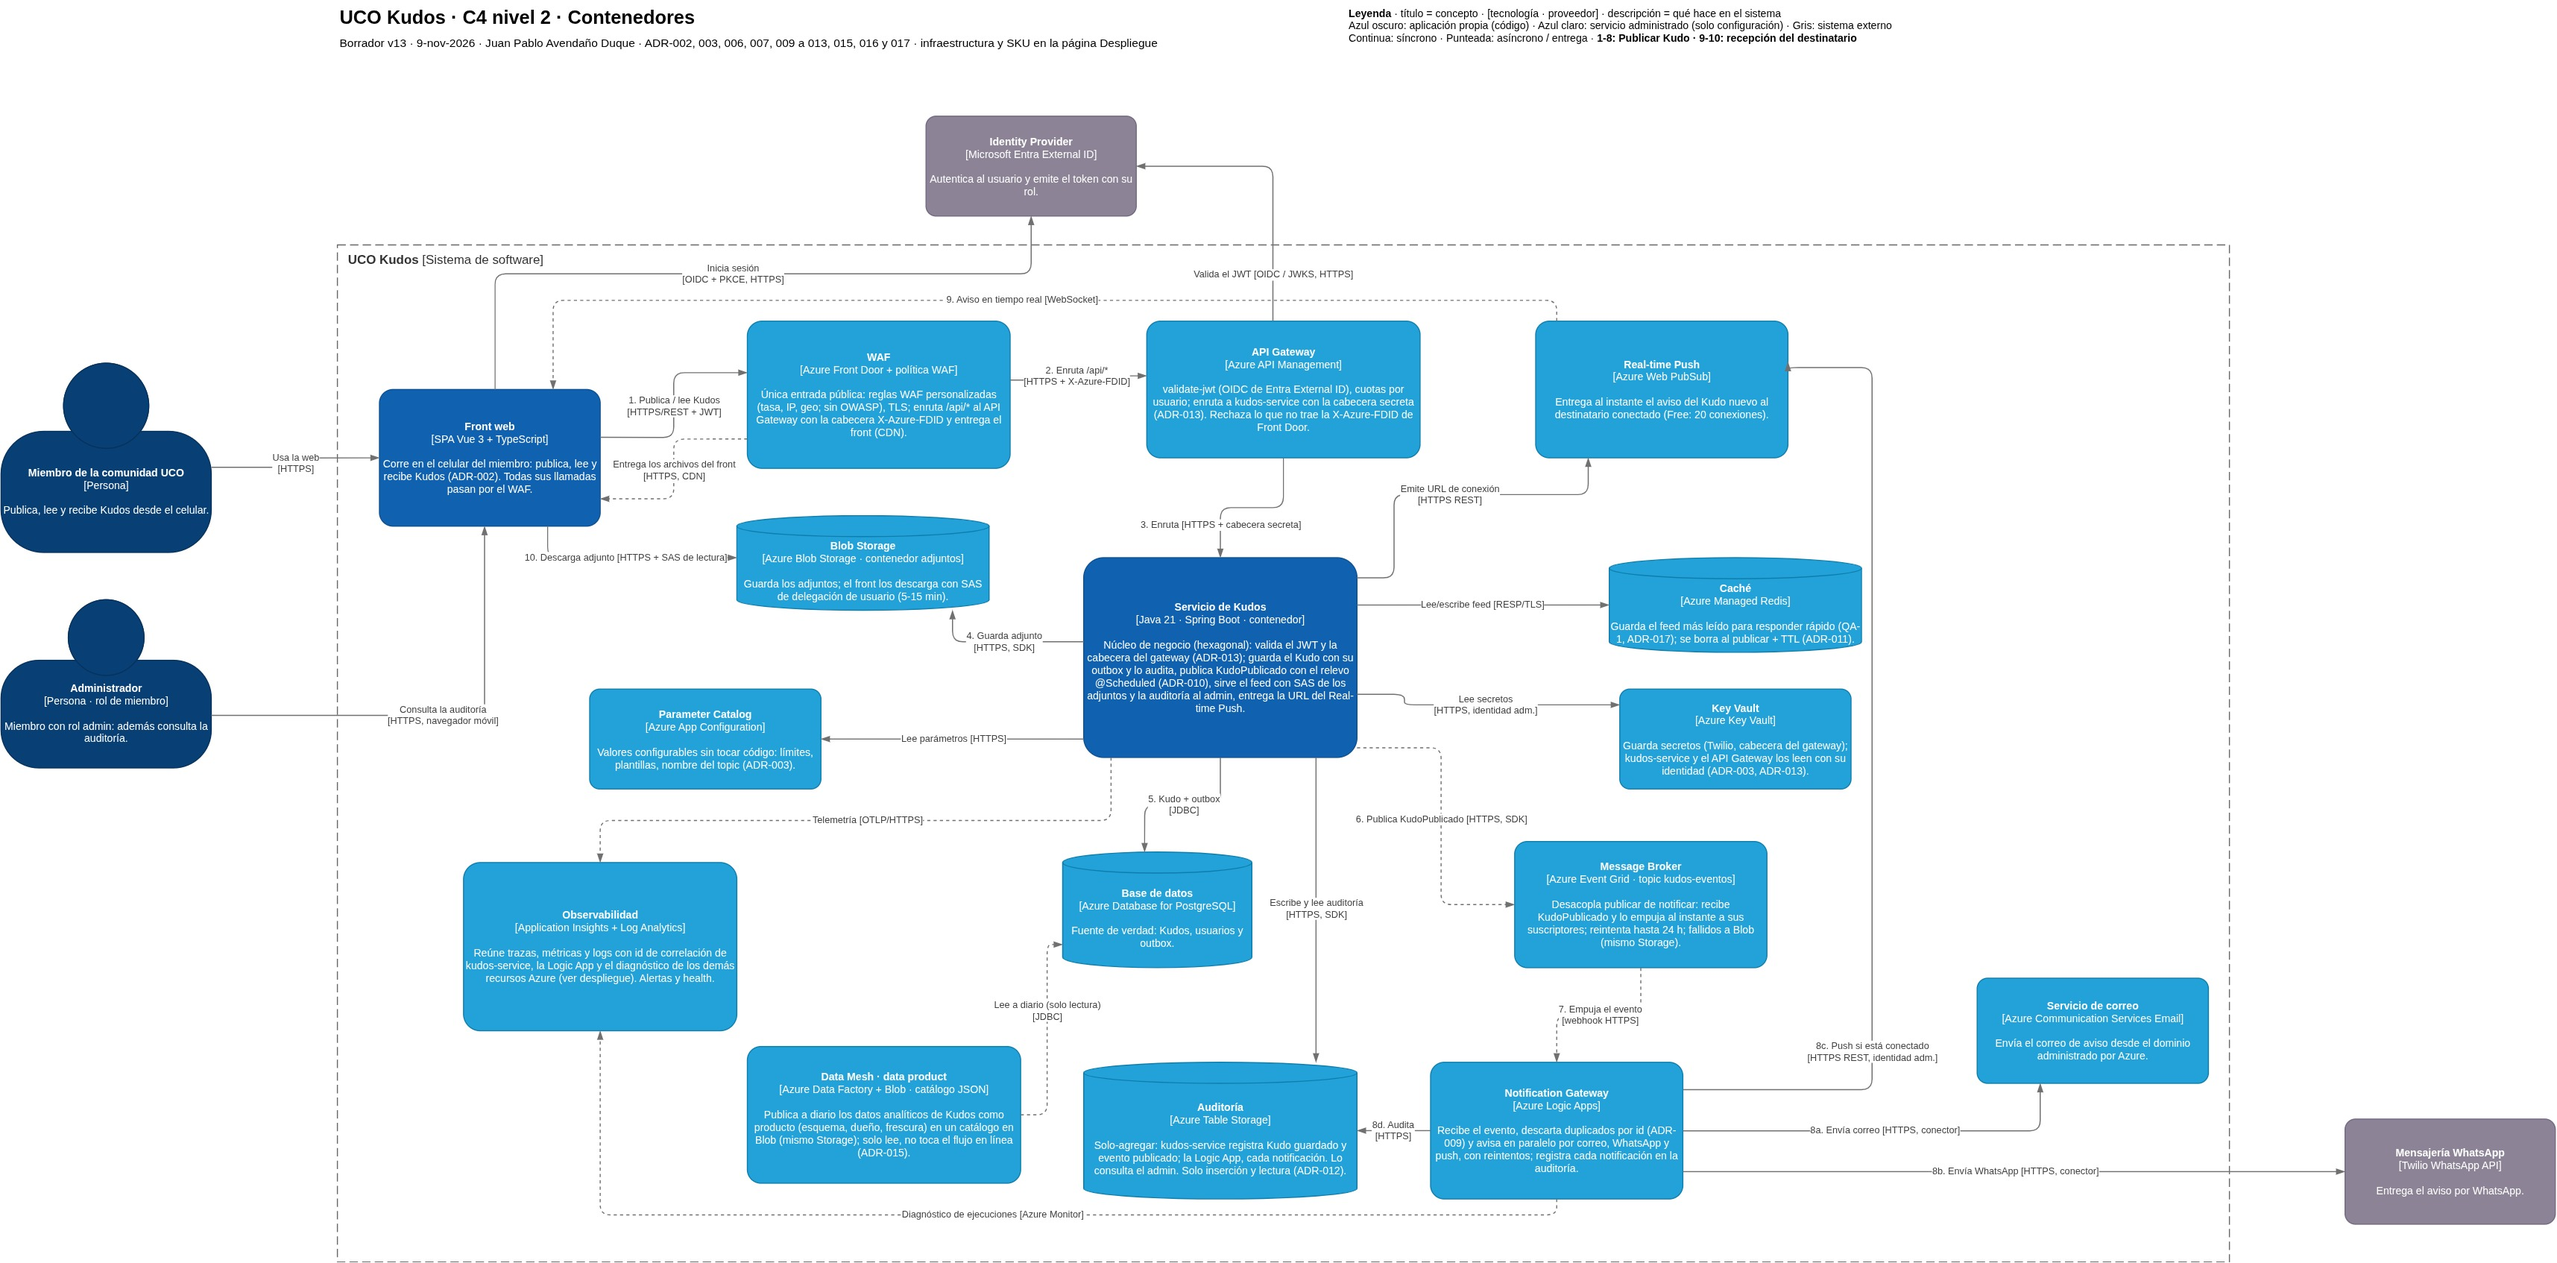
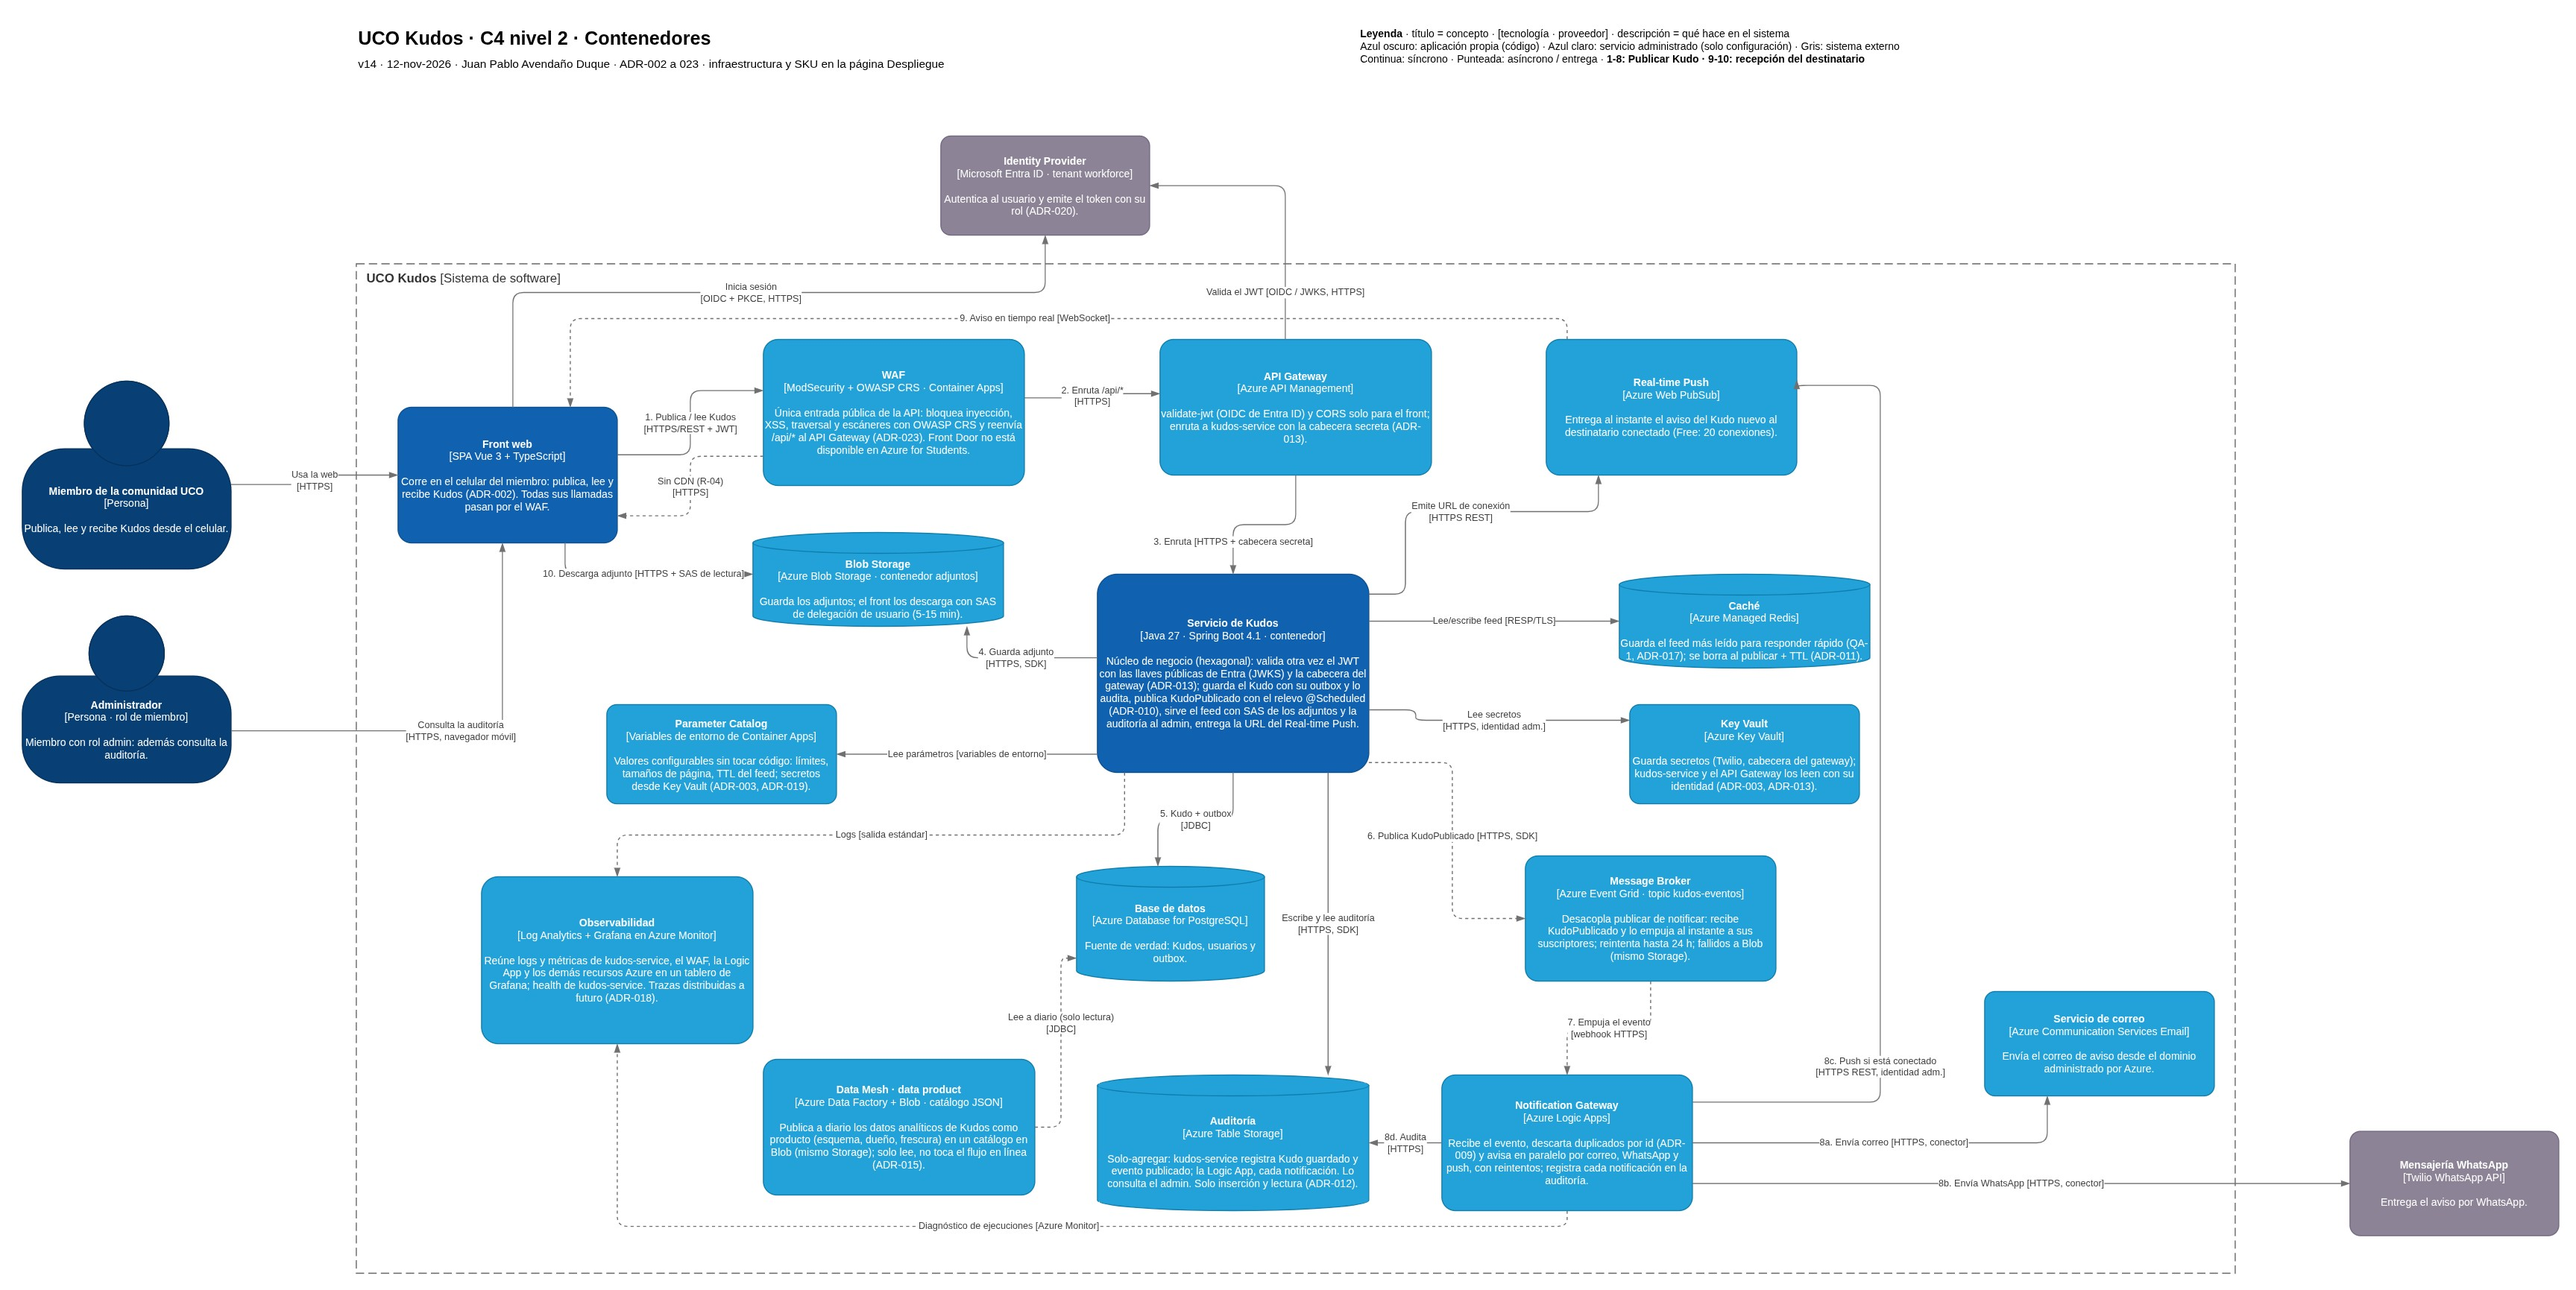
docs: C4 N2 v14 alineado con el despliegue

diff --git a/README.md b/README.md
@@ -90,7 +90,7 @@ La nota amarilla del diagrama guarda tres preguntas que siguen abiertas: si el r
 par de miembros, qué pasa con un Kudo a alguien que nunca ha entrado y la creación del tenant.
 
 ### 3.2 · Diagrama de contenedores
-**Estado:** aceptado (v13, 9-nov-2026).
+**Estado:** aceptado (v14, 12-nov-2026: textos alineados con el despliegue; misma disposición que la v13).
 
 ![C4 nivel 2 · Contenedores](https://raw.githubusercontent.com/JuanPabloAvendano/KudosBackEndUCOIS2/master/docs/Dise%C3%B1o/Alto%20Nivel/Contenedores.jpg)
 
